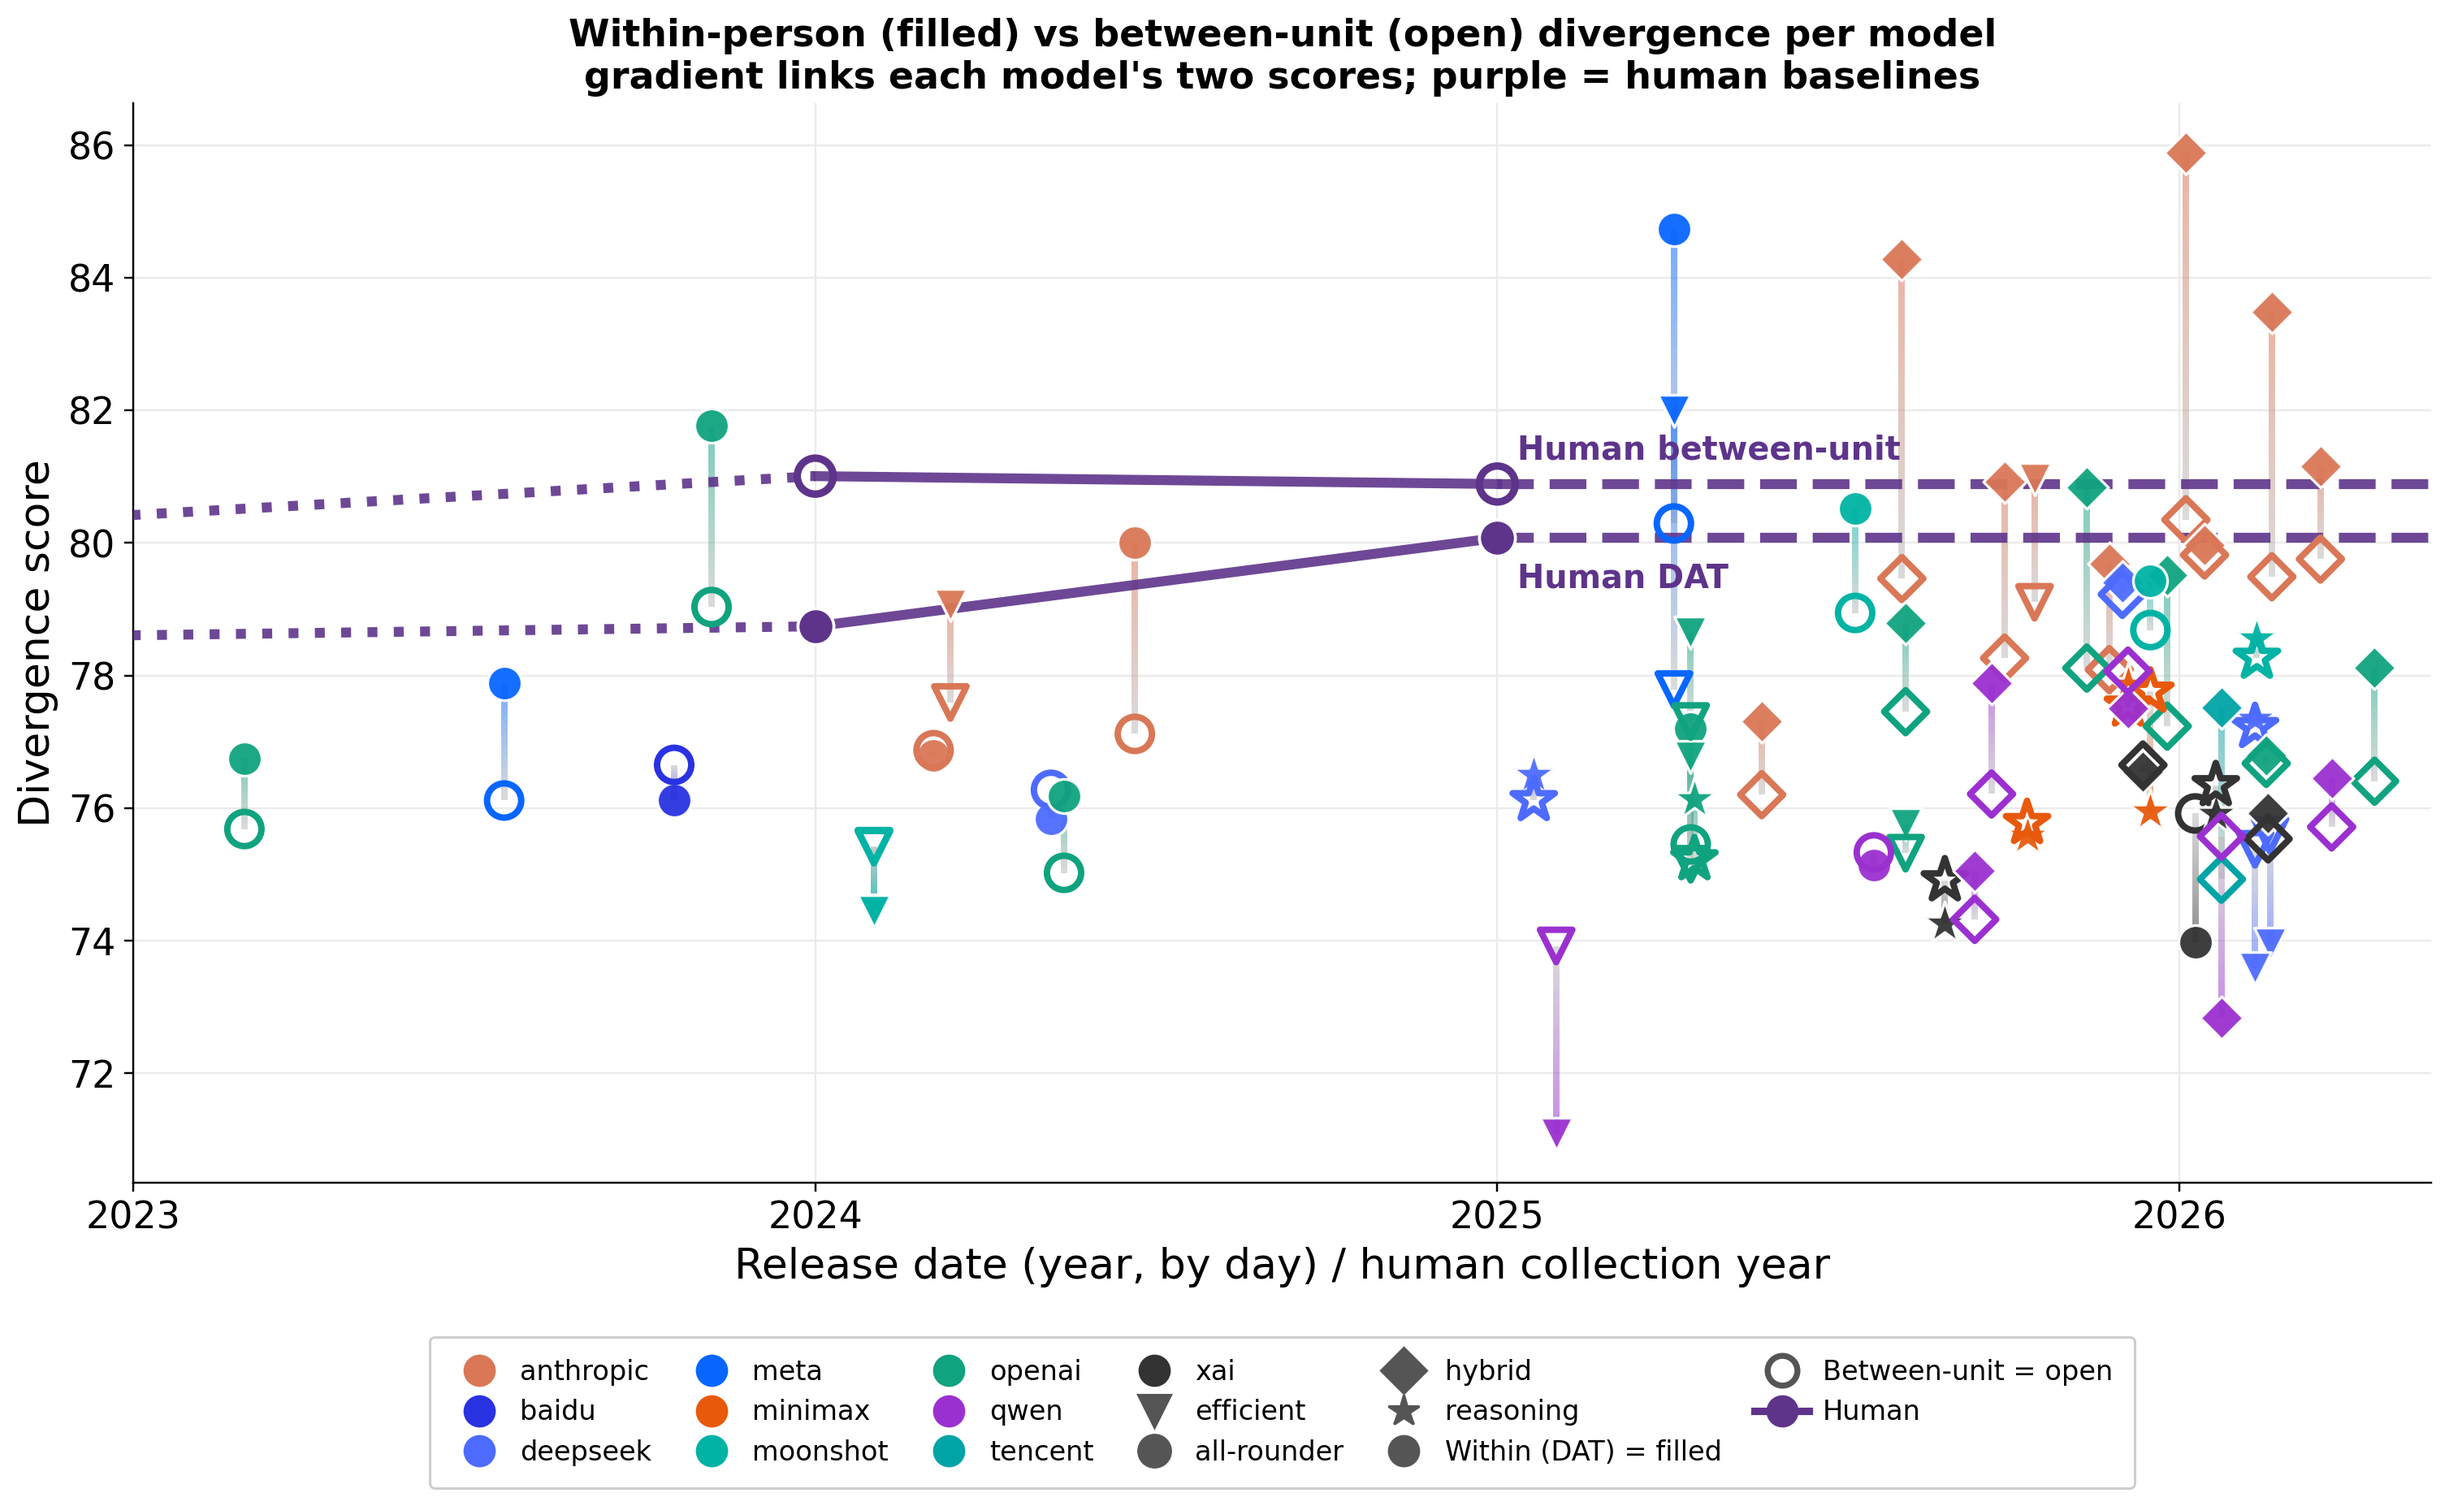
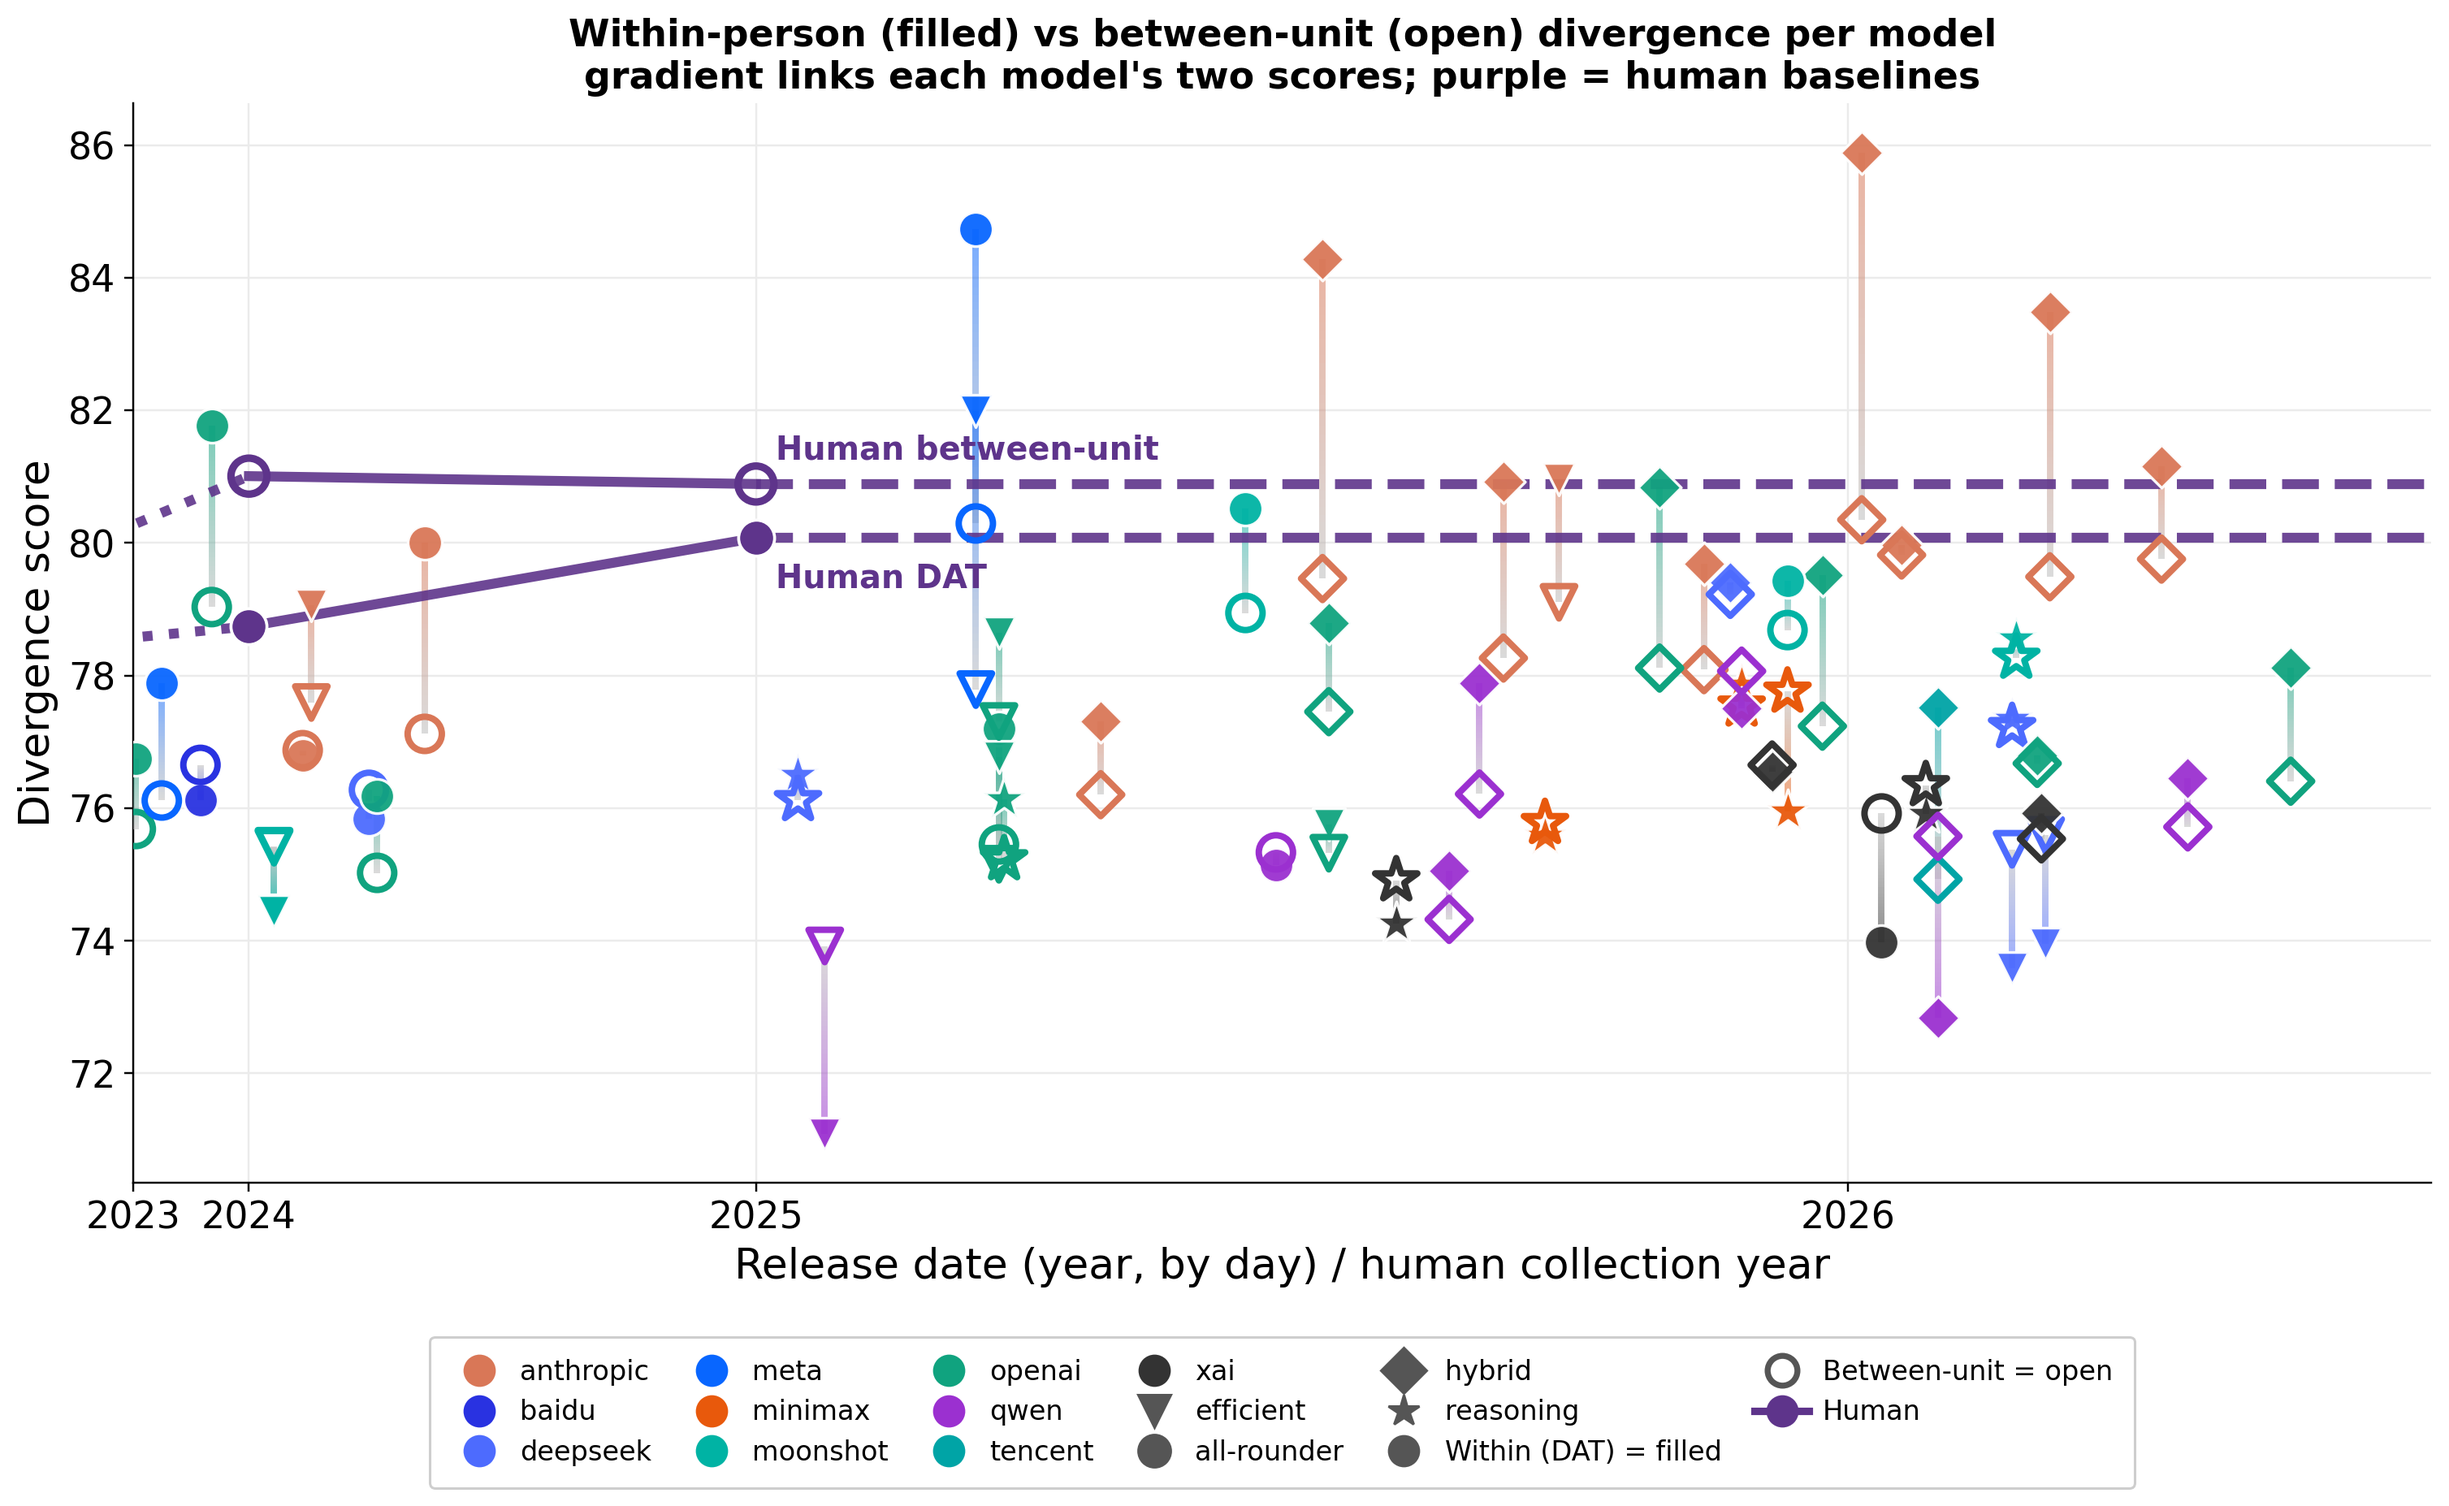
Overlay figure: expanding x-transform (earlier years compact, recent years broader) to de-crowd 2025-26

diff --git a/analysis/within_vs_between_overlay_plot.py b/analysis/within_vs_between_overlay_plot.py
@@ -6,6 +6,13 @@ import matplotlib.pyplot as plt
 from matplotlib.lines import Line2D
 from matplotlib.collections import LineCollection
 
+# --- expanding x-transform: earlier years compact, later years broader ---
+X0=2022.9  # anchor near earliest so compression bites
+GAMMA=2.6  # >1 => later spans get more width
+def tx(x): 
+    import numpy as _np
+    return _np.sign(x-X0)*(abs(x-X0)**GAMMA)
+
 PROV_COLOR={'openai':'#10a37f','anthropic':'#d97757','qwen':'#9b30d0','deepseek':'#4d6bfe','moonshot':'#00b3a4','xai':'#333333','baidu':'#2932e1','meta':'#0866ff','minimax':'#e8590c','tencent':'#00a4a6'}
 HUMAN_PURPLE='#5E348B'
 MARK={'efficient':'v','all-rounder':'o','hybrid':'D','reasoning':'*'}; SIZE={'efficient':170,'all-rounder':190,'hybrid':150,'reasoning':320}
@@ -30,28 +37,30 @@ GRAD_TO='#bcbcbc'  # fade toward grey at the between end
 for m in models:
     x=dat[m][0]; p=dat[m][4]; intel=dat[m][5]
     yd=dat[m][7]; yb=btw[m][7]; col=PROV_COLOR.get(p,'#888')
-    segs,cols=grad_segments(x,yd,yb,col,GRAD_TO)
+    segs,cols=grad_segments(tx(x),yd,yb,col,GRAD_TO)
     ax.add_collection(LineCollection(segs,colors=cols,linewidths=2.6,alpha=0.55,zorder=3))
 # markers on top: filled = DAT, open thick = between
 for m in models:
     x=dat[m][0]; p=dat[m][4]; intel=dat[m][5]; col=PROV_COLOR.get(p,'#888')
-    ax.scatter(x,dat[m][7],marker=MARK[intel],s=SIZE[intel],color=col,alpha=0.95,zorder=6,edgecolors='white',linewidths=1.1)
-    ax.scatter(x,btw[m][7],marker=MARK[intel],s=SIZE[intel],facecolors='none',edgecolors=col,linewidths=2.6,zorder=6)
+    ax.scatter(tx(x),dat[m][7],marker=MARK[intel],s=SIZE[intel],color=col,alpha=0.95,zorder=6,edgecolors='white',linewidths=1.1)
+    ax.scatter(tx(x),btw[m][7],marker=MARK[intel],s=SIZE[intel],facecolors='none',edgecolors=col,linewidths=2.6,zorder=6)
 # human baselines: DAT filled dashed, between open dashed
 def human_line(hy,style,fillopen):
     hx=sorted(hy)
-    ax.plot([hx[0],hx[1]],[hy[hx[0]],hy[hx[1]]],':',color=HUMAN_PURPLE,lw=4,zorder=5,alpha=0.9)
-    ax.plot([2024,2025],[hy[2024],hy[2025]],'-',color=HUMAN_PURPLE,lw=4,zorder=5,alpha=0.9)
-    ax.plot([2025,xmax],[hy[2025],hy[2025]],'--',color=HUMAN_PURPLE,lw=4,zorder=5,alpha=0.9)
+    ax.plot([tx(hx[0]),tx(hx[1])],[hy[hx[0]],hy[hx[1]]],':',color=HUMAN_PURPLE,lw=4,zorder=5,alpha=0.9)
+    ax.plot([tx(2024),tx(2025)],[hy[2024],hy[2025]],'-',color=HUMAN_PURPLE,lw=4,zorder=5,alpha=0.9)
+    ax.plot([tx(2025),tx(xmax)],[hy[2025],hy[2025]],'--',color=HUMAN_PURPLE,lw=4,zorder=5,alpha=0.9)
     for y in hx:
-        if fillopen=='fill': ax.scatter(y,hy[y],marker='o',s=210,color=HUMAN_PURPLE,zorder=7,edgecolors='white',linewidths=1.2)
-        else: ax.scatter(y,hy[y],marker='o',s=210,facecolors='none',edgecolors=HUMAN_PURPLE,linewidths=3,zorder=7)
+        if fillopen=='fill': ax.scatter(tx(y),hy[y],marker='o',s=210,color=HUMAN_PURPLE,zorder=7,edgecolors='white',linewidths=1.2)
+        else: ax.scatter(tx(y),hy[y],marker='o',s=210,facecolors='none',edgecolors=HUMAN_PURPLE,linewidths=3,zorder=7)
 human_line(dat_hy,'-','fill')
 human_line(btw_hy,'--','open')
-ax.annotate("Human DAT",(2025,dat_hy[2025]),textcoords="offset points",xytext=(8,-20),fontsize=13,weight='bold',color=HUMAN_PURPLE)
-ax.annotate("Human between-unit",(2025,btw_hy[2025]),textcoords="offset points",xytext=(8,10),fontsize=13,weight='bold',color=HUMAN_PURPLE)
+ax.annotate("Human DAT",(tx(2025),dat_hy[2025]),textcoords="offset points",xytext=(8,-20),fontsize=13,weight='bold',color=HUMAN_PURPLE)
+ax.annotate("Human between-unit",(tx(2025),btw_hy[2025]),textcoords="offset points",xytext=(8,10),fontsize=13,weight='bold',color=HUMAN_PURPLE)
 
-ax.set_xlim(xmin,xmax); ax.set_xticks([2023,2024,2025,2026])
+ax.set_xlim(tx(xmin),tx(xmax))
+_yr=[2023,2024,2025,2026]
+ax.set_xticks([tx(y) for y in _yr]); ax.set_xticklabels([str(y) for y in _yr])
 ax.set_xlabel("Release date (year, by day) / human collection year",fontsize=17)
 ax.set_ylabel("Divergence score",fontsize=17)
 ax.set_title("Within-person (filled) vs between-unit (open) divergence per model\ngradient links each model's two scores; purple = human baselines",fontsize=15,weight='bold')
